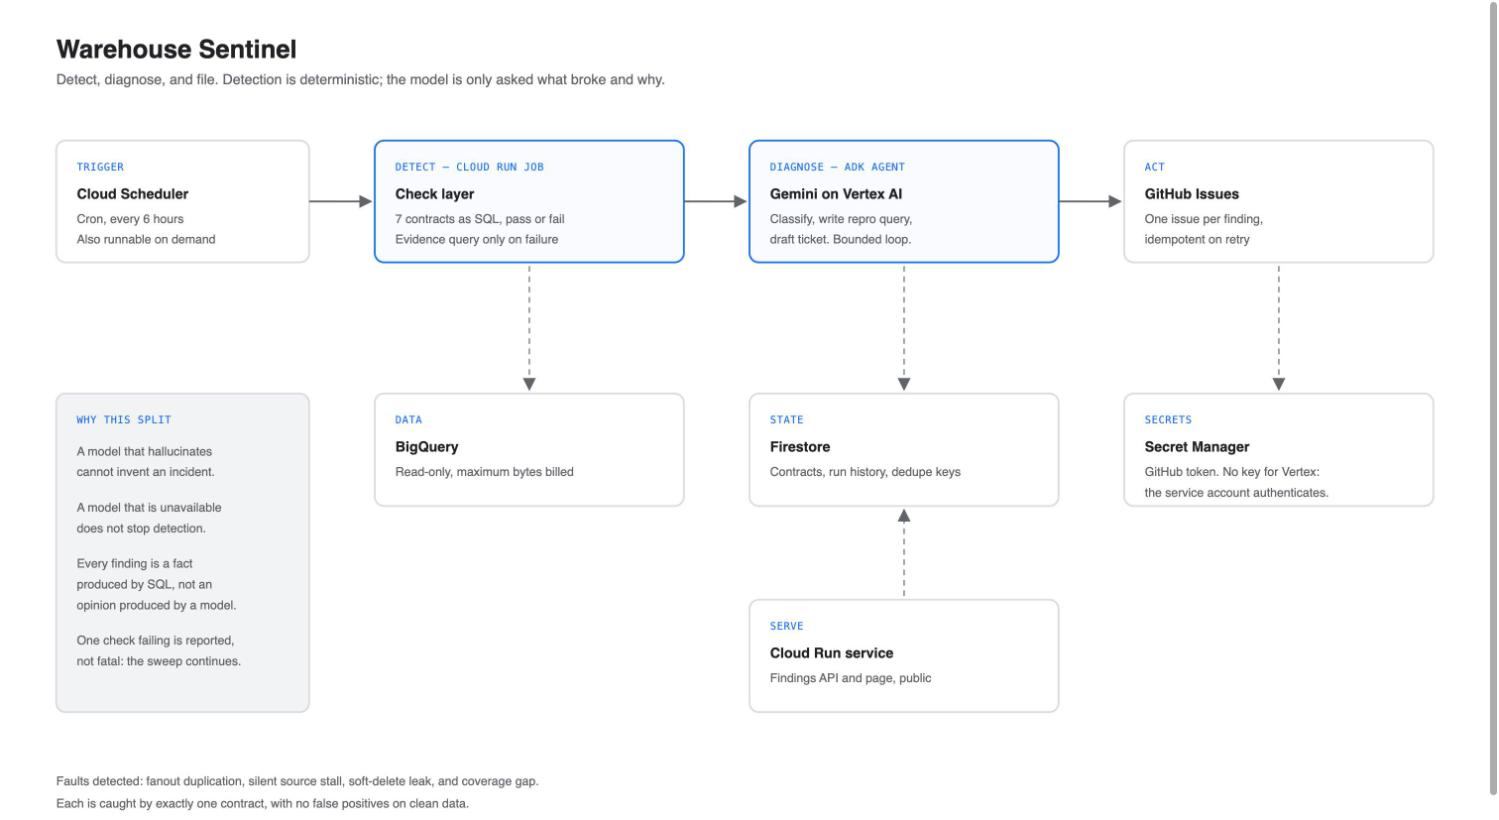
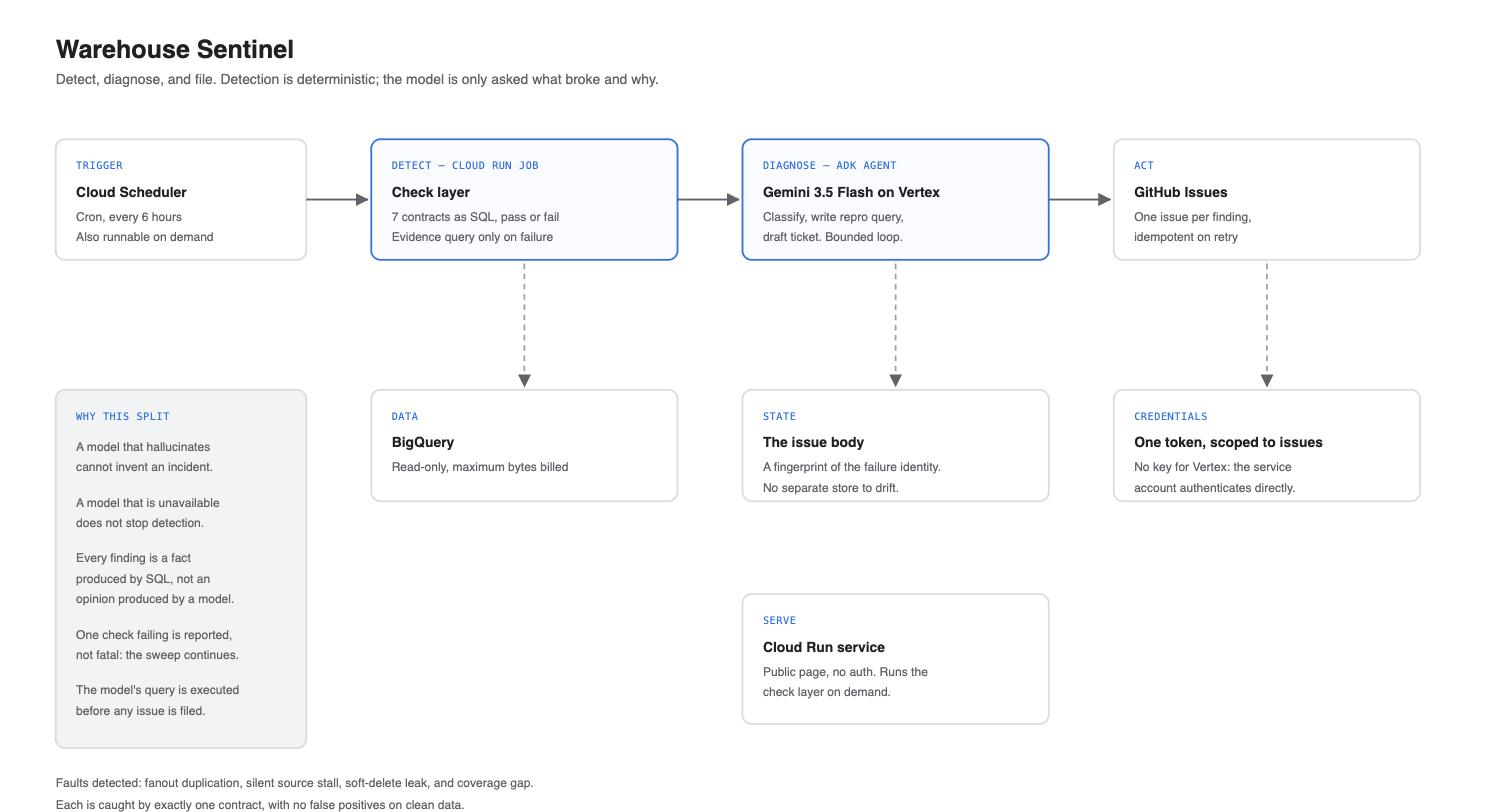
Redraw the architecture diagram against what shipped
Firestore is gone: the fingerprint lives in the issue body. Names the model
version, and records that the model's query is executed before any issue is
filed.

diff --git a/docs/architecture.html b/docs/architecture.html
@@ -5,7 +5,7 @@
   html,body{margin:0;padding:0;background:#fff;font-family:-apple-system,Segoe UI,Roboto,Helvetica,Arial,sans-serif}
   svg{display:block;width:100vw;height:auto}
 </style>
-<svg viewBox="0 0 1600 900" xmlns="http://www.w3.org/2000/svg">
+<svg viewBox="0 0 1600 910" xmlns="http://www.w3.org/2000/svg">
   <defs>
     <marker id="a" viewBox="0 0 10 10" refX="9" refY="5" markerWidth="7" markerHeight="7" orient="auto-start-reverse">
       <path d="M0,0 L10,5 L0,10 z" fill="#5f6368"/>
@@ -41,7 +41,7 @@
 
   <rect class="prim" x="800" y="150" width="330" height="130"/>
   <text class="k" x="822" y="182">DIAGNOSE — ADK AGENT</text>
-  <text class="t" x="822" y="212">Gemini on Vertex AI</text>
+  <text class="t" x="822" y="212">Gemini 3.5 Flash on Vertex</text>
   <text class="s" x="822" y="238">Classify, write repro query,</text>
   <text class="s" x="822" y="260">draft ticket. Bounded loop.</text>
 
@@ -63,28 +63,29 @@
 
   <rect class="box" x="800" y="420" width="330" height="120"/>
   <text class="k" x="822" y="452">STATE</text>
-  <text class="t" x="822" y="482">Firestore</text>
-  <text class="s" x="822" y="508">Contracts, run history, dedupe keys</text>
+  <text class="t" x="822" y="482">The issue body</text>
+  <text class="s" x="822" y="508">A fingerprint of the failure identity.</text>
+  <text class="s" x="822" y="530">No separate store to drift.</text>
 
   <rect class="box" x="1200" y="420" width="330" height="120"/>
-  <text class="k" x="1222" y="452">SECRETS</text>
-  <text class="t" x="1222" y="482">Secret Manager</text>
-  <text class="s" x="1222" y="508">GitHub token. No key for Vertex:</text>
-  <text class="s" x="1222" y="530">the service account authenticates.</text>
+  <text class="k" x="1222" y="452">CREDENTIALS</text>
+  <text class="t" x="1222" y="482">One token, scoped to issues</text>
+  <text class="s" x="1222" y="508">No key for Vertex: the service</text>
+  <text class="s" x="1222" y="530">account authenticates directly.</text>
 
   <line class="dl" x1="565" y1="284" x2="565" y2="416"/>
   <line class="dl" x1="965" y1="284" x2="965" y2="416"/>
   <line class="dl" x1="1365" y1="284" x2="1365" y2="416"/>
 
   <!-- findings service -->
-  <rect class="box" x="800" y="640" width="330" height="120"/>
+  <rect class="box" x="800" y="640" width="330" height="140"/>
   <text class="k" x="822" y="672">SERVE</text>
   <text class="t" x="822" y="702">Cloud Run service</text>
-  <text class="s" x="822" y="728">Findings API and page, public</text>
-  <line class="dl" x1="965" y1="636" x2="965" y2="544"/>
+  <text class="s" x="822" y="728">Public page, no auth. Runs the</text>
+  <text class="s" x="822" y="750">check layer on demand.</text>
 
   <!-- principle callout -->
-  <rect x="60" y="420" width="270" height="340" rx="10" fill="#f1f3f4" stroke="#dadce0" stroke-width="2"/>
+  <rect x="60" y="420" width="270" height="386" rx="10" fill="#f1f3f4" stroke="#dadce0" stroke-width="2"/>
   <text class="k" x="82" y="452">WHY THIS SPLIT</text>
   <text class="s" x="82" y="486">A model that hallucinates</text>
   <text class="s" x="82" y="508">cannot invent an incident.</text>
@@ -95,7 +96,9 @@
   <text class="s" x="82" y="650">opinion produced by a model.</text>
   <text class="s" x="82" y="688">One check failing is reported,</text>
   <text class="s" x="82" y="710">not fatal: the sweep continues.</text>
+  <text class="s" x="82" y="748">The model's query is executed</text>
+  <text class="s" x="82" y="770">before any issue is filed.</text>
 
-  <text class="s" x="60" y="838">Faults detected: fanout duplication, silent source stall, soft-delete leak, and coverage gap.</text>
-  <text class="s" x="60" y="862">Each is caught by exactly one contract, with no false positives on clean data.</text>
+  <text class="s" x="60" y="848">Faults detected: fanout duplication, silent source stall, soft-delete leak, and coverage gap.</text>
+  <text class="s" x="60" y="872">Each is caught by exactly one contract, with no false positives on clean data.</text>
 </svg>
